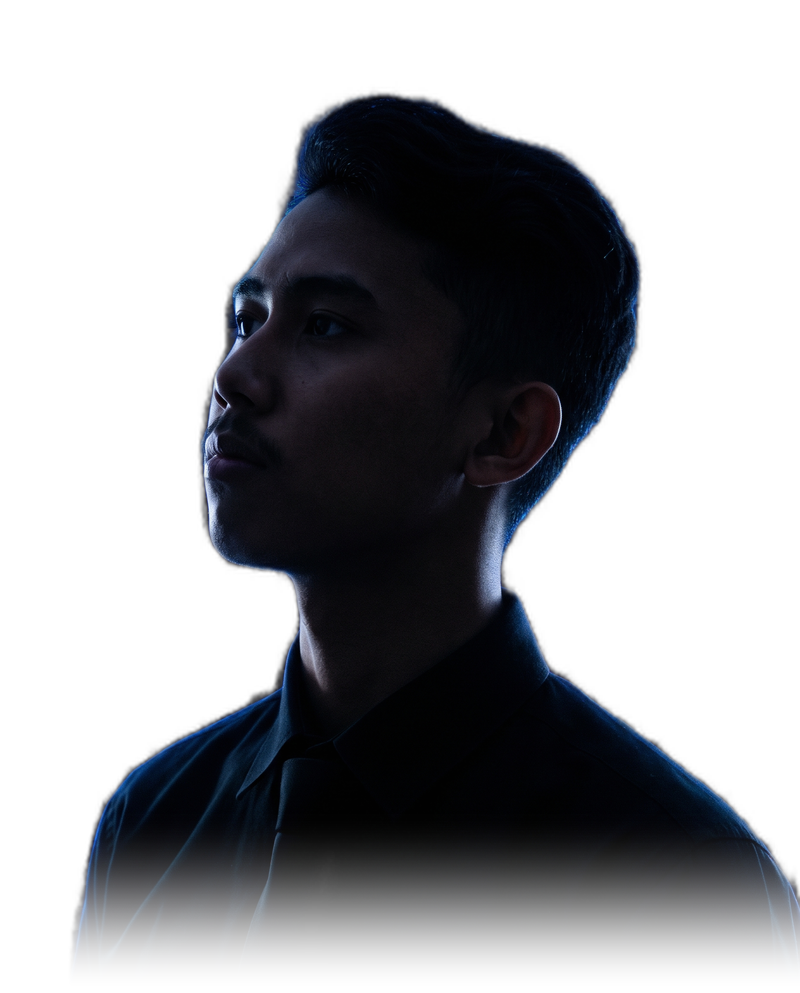
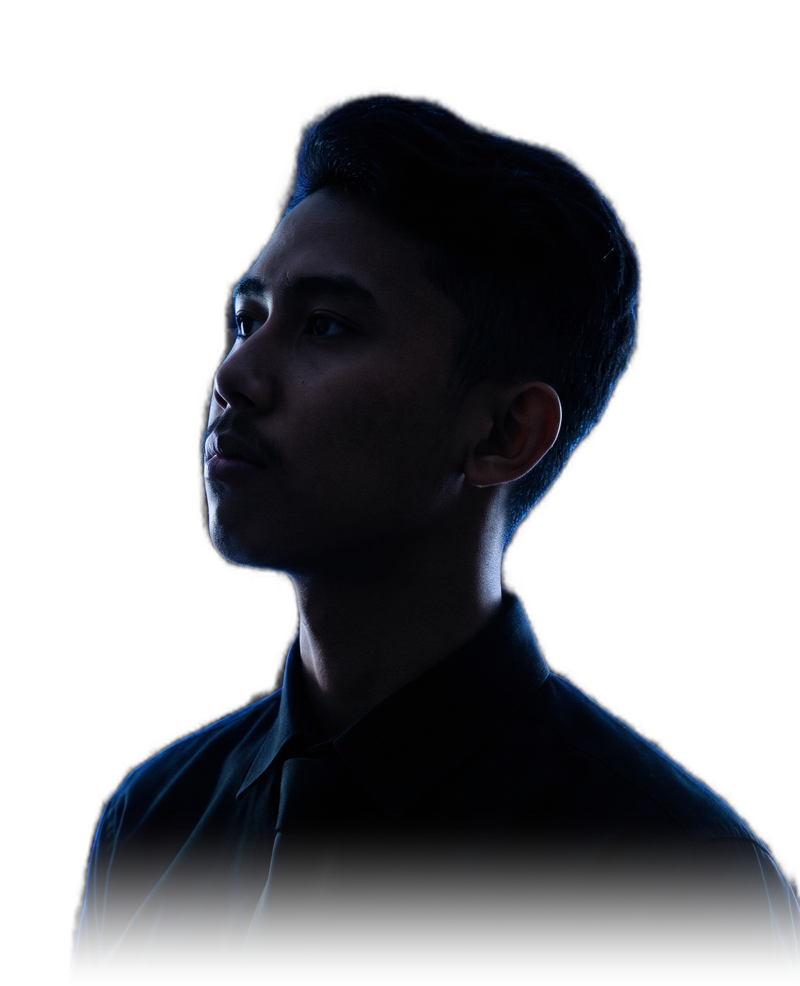
feat: add portfolio components and assets for personal web application

diff --git a/src/components/Hero.jsx b/src/components/Hero.jsx
@@ -3,14 +3,14 @@ import { ArrowUpRight, Mail, Sparkles, Terminal } from "lucide-react";
 
 const Hero = () => {
   return (
-    <section className="relative min-h-[calc(100vh-4rem)] flex items-center justify-center overflow-hidden bg-[#030712] px-6 py-16 lg:px-12 lg:py-16 xl:px-16">
+    <section className="relative min-h-[calc(100vh-4rem)] flex flex-col justify-end overflow-hidden bg-[#030712] px-6 pt-16 lg:px-12 lg:pt-20 xl:px-16 pb-0">
       {/* Dynamic Deep Blue & Black Gradient Atmosphere */}
       {/* 1. Base Dark Midnight Tone */}
       <div className="absolute inset-0 bg-gradient-to-b from-[#020617] via-[#040d21] to-[#020617] pointer-events-none" />
 
       {/* 2. Core Radial Glow directly behind Alfin's silhouette - Darker, richer midnight navy glow */}
       <div
-        className="absolute top-[45%] left-1/2 -translate-x-1/2 -translate-y-1/2 w-[600px] h-[600px] sm:w-[750px] sm:h-[750px] lg:w-[950px] lg:h-[950px] rounded-full pointer-events-none blur-3xl opacity-90"
+        className="absolute top-[50%] left-1/2 -translate-x-1/2 -translate-y-1/2 w-[600px] h-[600px] sm:w-[750px] sm:h-[750px] lg:w-[950px] lg:h-[950px] rounded-full pointer-events-none blur-3xl opacity-90"
         style={{
           background:
             "radial-gradient(circle at 50% 50%, rgba(29, 78, 216, 0.38) 0%, rgba(30, 58, 138, 0.28) 35%, rgba(15, 23, 42, 0.45) 60%, transparent 80%)",
@@ -19,7 +19,7 @@ const Hero = () => {
 
       {/* 3. Subtle Inner Spotlight behind the head - Softened & darker */}
       <div
-        className="absolute top-[40%] left-1/2 -translate-x-1/2 -translate-y-1/2 w-[280px] h-[280px] sm:w-[380px] sm:h-[380px] rounded-full pointer-events-none blur-2xl opacity-60"
+        className="absolute top-[45%] left-1/2 -translate-x-1/2 -translate-y-1/2 w-[280px] h-[280px] sm:w-[380px] sm:h-[380px] rounded-full pointer-events-none blur-2xl opacity-60"
         style={{
           background:
             "radial-gradient(circle, rgba(37, 99, 235, 0.25) 0%, rgba(30, 58, 138, 0.15) 60%, transparent 100%)",
@@ -44,15 +44,15 @@ const Hero = () => {
       <div className="absolute bottom-0 left-0 right-0 h-24 bg-gradient-to-t from-[#020617] to-transparent pointer-events-none z-0" />
 
       {/* Content Grid */}
-      <div className="container relative z-10 mx-auto max-w-7xl">
-        <div className="grid grid-cols-1 items-center gap-8 lg:grid-cols-12 lg:gap-4 xl:gap-8">
+      <div className="container relative z-10 mx-auto max-w-7xl h-full flex flex-col justify-end">
+        <div className="grid grid-cols-1 items-end gap-8 lg:grid-cols-12 lg:gap-4 xl:gap-8">
 
           {/* LEFT COLUMN: Punchy Bold Typography */}
           <motion.div
             initial={{ opacity: 0, x: -30 }}
             animate={{ opacity: 1, x: 0 }}
             transition={{ duration: 0.7, ease: "easeOut" }}
-            className="flex flex-col justify-center lg:self-center lg:-translate-y-16 xl:-translate-y-20 lg:col-span-4 text-left z-20"
+            className="flex flex-col justify-center lg:self-center lg:col-span-4 text-left z-20 pb-8 lg:pb-16"
           >
             {/* Top Greeting */}
             <p className="text-blue-300 font-medium text-lg sm:text-xl lg:text-2xl tracking-tight mb-2">
@@ -68,21 +68,21 @@ const Hero = () => {
             </h1>
           </motion.div>
 
-          {/* CENTER COLUMN: Portrait Cutout with Blue Backlight */}
+          {/* CENTER COLUMN: Portrait Cutout sitting flush at the bottom */}
           <motion.div
             initial={{ opacity: 0, scale: 0.95, y: 20 }}
             animate={{ opacity: 1, scale: 1, y: 0 }}
             transition={{ duration: 0.8, delay: 0.15, ease: "easeOut" }}
-            className="relative flex items-center justify-center lg:col-span-4 z-10"
+            className="relative flex items-end justify-center lg:col-span-4 z-10 self-end leading-none"
           >
             {/* Ambient Backlight Halo directly centered on head/torso */}
             <div className="absolute inset-0 -top-6 mx-auto w-[90%] h-[90%] rounded-full bg-blue-600/15 blur-3xl -z-10 pointer-events-none" />
 
-            <div className="relative w-full max-w-[340px] sm:max-w-[400px] md:max-w-[450px] lg:max-w-[500px]">
+            <div className="relative w-full max-w-[340px] sm:max-w-[400px] md:max-w-[450px] lg:max-w-[500px] leading-none">
               <img
                 src="/alfin2.png"
                 alt="Muhammad Alfin Tsabit - Software Developer"
-                className="w-full h-auto object-contain select-none transition-transform duration-500 hover:scale-[1.02]"
+                className="w-full h-auto object-contain object-bottom block align-bottom select-none transition-transform duration-500 hover:scale-[1.02]"
                 loading="eager"
                 decoding="async"
               />
@@ -94,7 +94,7 @@ const Hero = () => {
             initial={{ opacity: 0, x: 30 }}
             animate={{ opacity: 1, x: 0 }}
             transition={{ duration: 0.7, delay: 0.3, ease: "easeOut" }}
-            className="flex flex-col justify-center lg:col-span-4 z-20 space-y-6 text-left lg:py-12"
+            className="flex flex-col justify-center lg:self-center lg:col-span-4 z-20 space-y-6 text-left pb-10 lg:pb-16"
           >
             {/* Name */}
             <div>
@@ -106,7 +106,7 @@ const Hero = () => {
             {/* Description & Bio */}
             <p className="text-sm sm:text-base text-slate-300 leading-relaxed font-normal">
               Fresh graduate in Informatics Engineering with practical experience in
-              full-stack web development using React JS, Laravel, Python, and PHP.
+              full-stack web development using JavaScript, Python, and PHP.
               Focused on delivering clean architecture, high performance, and seamless user experiences.
             </p>
 
@@ -114,7 +114,7 @@ const Hero = () => {
             <div className="flex flex-wrap items-center gap-3 pt-1">
               <a
                 href="#projects"
-                className="group inline-flex items-center gap-2 px-5 py-3 rounded-xl font-semibold text-blue-900 bg-white hover:bg-blue-500 shadow-lg shadow-blue-600/30 hover:shadow-blue-500/50 hover:-translate-y-0.5 active:translate-y-0 transition-all duration-200"
+                className="group inline-flex items-center gap-2 px-5 py-3 rounded-xl font-semibold text-blue-900 hover:text-white bg-white hover:bg-blue-500 shadow-lg shadow-blue-600/30 hover:shadow-blue-500/50 hover:-translate-y-0.5 active:translate-y-0 transition-all duration-200"
               >
                 <span>View Projects</span>
                 <ArrowUpRight className="w-4 h-4 transition-transform group-hover:translate-x-0.5 group-hover:-translate-y-0.5" />
@@ -135,11 +135,11 @@ const Hero = () => {
                 Core Technologies
               </p>
               <div className="flex flex-wrap gap-2 text-xs">
-                {["React.js", "Laravel", "Python", "PHP", "Tailwind CSS"].map(
+                {["JavaScript", "Python", "PHP"].map(
                   (tech) => (
                     <span
                       key={tech}
-                      className="px-2.5 py-1 rounded-lg bg-blue-950/60 border border-blue-800/40 text-blue-200 font-medium backdrop-blur-sm"
+                      className="px-3 py-1.5 rounded-lg font-medium text-blue-200 bg-blue-950/60 border border-blue-800/40 backdrop-blur-sm"
                     >
                       {tech}
                     </span>
@@ -148,7 +148,6 @@ const Hero = () => {
               </div>
             </div>
           </motion.div>
-
         </div>
       </div>
     </section>

diff --git a/src/components/About.jsx b/src/components/About.jsx
@@ -2,41 +2,41 @@ import { motion } from "framer-motion";
 
 const About = () => {
   return (
-    <section id="about" className="section-padding bg-secondary relative overflow-hidden">
-      <div className="container mx-auto max-w-7xl px-6 py-16 lg:px-16 relative z-10">
+    <section id="about" className="bg-secondary relative overflow-hidden pt-12 lg:pt-16">
+      <div className="container mx-auto max-w-7xl px-6 lg:px-16 relative z-10">
         <motion.div
-          initial={{ opacity: 0, y: 24 }}
+          initial={{ opacity: 0, y: 20 }}
           whileInView={{ opacity: 1, y: 0 }}
-          transition={{ duration: 0.6 }}
+          transition={{ duration: 0.5 }}
           viewport={{ once: true }}
-          className="grid grid-cols-1 items-center gap-12 lg:grid-cols-12 lg:gap-16"
+          className="grid grid-cols-1 items-end gap-8 lg:grid-cols-12 lg:gap-12"
         >
           {/* Left: Text (All Left-Aligned) */}
-          <div className="text-left lg:col-span-7">
-            <h2 className="mb-6 text-3xl font-bold text-white sm:text-4xl lg:text-5xl">
+          <div className="text-left lg:col-span-7 pb-8 lg:pb-30">
+            <h2 className="mb-4 text-3xl font-bold text-white sm:text-4xl">
               About Me
             </h2>
 
-            <p className="text-lg text-slate-300 leading-relaxed">
+            <p className="text-base sm:text-lg text-slate-300 leading-relaxed">
               Hi! I'm Muhammad Alfin Tsabit, a fresh graduate of D3 Teknik
               Informatika from Politeknik Negeri Indramayu with a strong interest
               in software development and full-stack web development. I am used to
               working across requirement analysis, system architecture,
-              implementation, and maintenance using React JS, Laravel, Python, and
+              implementation, and maintenance using JavaScript, Python, and
               PHP.
             </p>
           </div>
 
-          {/* Right: Image alfin3.png */}
-          <div className="flex justify-center lg:justify-end lg:col-span-5">
-            <div className="relative flex justify-center items-center">
+          {/* Right: Image alfin3.png (compact, proportional, sitting flush at the bottom edge) */}
+          <div className="flex justify-center lg:justify-end lg:col-span-5 self-end">
+            <div className="relative flex justify-center items-end leading-none">
               {/* Subtle ambient backlight glow */}
-              <div className="absolute inset-0 -m-8 rounded-full bg-blue-600/15 blur-3xl pointer-events-none" />
+              <div className="absolute inset-x-0 bottom-6 h-3/4 rounded-full bg-blue-600/15 blur-2xl pointer-events-none" />
 
               <img
                 src="/alfin3.png"
                 alt="Muhammad Alfin Tsabit"
-                className="relative z-10 w-full max-w-[140px] sm:max-w-[180px] md:max-w-[200px] lg:max-w-[200px] object-contain drop-shadow-[0_15px_30px_rgba(2,6,23,0.8)]"
+                className="relative z-10 block h-[260px] sm:h-[300px] md:h-[330px] lg:h-[460px] w-auto max-w-full object-contain object-bottom align-bottom drop-shadow-[0_10px_25px_rgba(2,6,23,0.7)]"
               />
             </div>
           </div>

diff --git a/src/components/certificate.jsx b/src/components/certificate.jsx
@@ -200,11 +200,11 @@ const Certificate = () => {
   return (
     <section id="certificates" className="section-padding bg-primary">
       <div className="container mx-auto max-w-7xl px-4 py-12">
-        <div className="mb-12 text-center">
+        <div className="ml-12 mb-12 text-left">
           <h2 className="mb-4 text-3xl font-bold text-white sm:text-4xl">
             Certificates
           </h2>
-          <p className="mx-auto max-w-2xl text-lg text-slate-300">
+          <p className="max-w-2xl text-lg text-slate-300">
             A collection of certificates that documents my learning journey in
             programming, data, and artificial intelligence.
           </p>
@@ -320,9 +320,8 @@ const Certificate = () => {
                     <div className="relative aspect-[4/3] overflow-hidden rounded-lg bg-slate-950">
                       <img
                         src={selectedCertificate.images[activeImageIndex]}
-                        alt={`${selectedCertificate.title} page ${
-                          activeImageIndex + 1
-                        }`}
+                        alt={`${selectedCertificate.title} page ${activeImageIndex + 1
+                          }`}
                         className="h-full w-full object-contain"
                       />
 
@@ -355,18 +354,16 @@ const Certificate = () => {
                             type="button"
                             key={image}
                             onClick={() => setActiveImageIndex(index)}
-                            className={`aspect-[4/3] overflow-hidden rounded-lg border-2 bg-slate-950 p-1 transition ${
-                              activeImageIndex === index
+                            className={`aspect-[4/3] overflow-hidden rounded-lg border-2 bg-slate-950 p-1 transition ${activeImageIndex === index
                                 ? "border-blue-400"
                                 : "border-transparent opacity-70 hover:opacity-100"
-                            }`}
+                              }`}
                             aria-label={`View page ${index + 1}`}
                           >
                             <img
                               src={image}
-                              alt={`${selectedCertificate.title} thumbnail ${
-                                index + 1
-                              }`}
+                              alt={`${selectedCertificate.title} thumbnail ${index + 1
+                                }`}
                               className="h-full w-full object-contain"
                             />
                           </button>

diff --git a/src/components/Projects.jsx b/src/components/Projects.jsx
@@ -138,12 +138,12 @@ const Projects = () => {
           whileInView={{ opacity: 1, y: 0 }}
           transition={{ duration: 0.5 }}
           viewport={{ once: true }}
-          className="text-center mb-12"
+          className="text-left ml-12 mb-12"
         >
           <h2 className="text-3xl sm:text-4xl font-bold text-white mb-4">
             Recent Projects
           </h2>
-          <p className="text-lg text-slate-300 max-w-2xl mx-auto">
+          <p className="text-lg text-slate-300 max-w-2xl">
             Selected projects from my full-stack development work
           </p>
         </motion.div>
@@ -280,11 +280,10 @@ const Projects = () => {
                           type="button"
                           key={image}
                           onClick={() => setActiveImageIndex(index)}
-                          className={`relative aspect-video overflow-hidden rounded-lg border-2 transition ${
-                            activeImageIndex === index
-                              ? "border-blue-400"
-                              : "border-transparent opacity-70 hover:opacity-100"
-                          }`}
+                          className={`relative aspect-video overflow-hidden rounded-lg border-2 transition ${activeImageIndex === index
+                            ? "border-blue-400"
+                            : "border-transparent opacity-70 hover:opacity-100"
+                            }`}
                           aria-label={`View photo ${index + 1}`}
                         >
                           {renderProjectImage(selectedProject, image, "h-full w-full")}

diff --git a/src/components/Experience.jsx b/src/components/Experience.jsx
@@ -16,7 +16,7 @@ const Experience = () => {
       period: "2023 - 2024",
       summary:
         "Built a web-based system that allows library visitors to propose book titles that are not yet available in the library collection.",
-      stack: "Laravel",
+      stack: "PHP, Laravel",
     },
     {
       role: "Full-stack Developer",
@@ -36,7 +36,7 @@ const Experience = () => {
           whileInView={{ opacity: 1, y: 0 }}
           transition={{ duration: 0.5 }}
           viewport={{ once: true }}
-          className="mx-auto mb-12 max-w-3xl text-center"
+          className="mx-auto ml-12 mb-12 max-w-3xl text-left"
         >
           <h2 className="mb-4 text-3xl font-bold text-white sm:text-4xl">
             Experience
@@ -95,7 +95,7 @@ const Experience = () => {
               ))}
             </ul>
 
-            <p className="mt-6 rounded-xl border border-blue-800/30 bg-blue-950/40 px-4 py-3 text-sm font-medium text-blue-200">
+            <p className="mt-6 rounded-xl px-4 py-3 text-sm font-medium text-blue-200">
               Tech stack: PHP, Laravel
             </p>
           </motion.article>

diff --git a/src/components/Navbar.jsx b/src/components/Navbar.jsx
@@ -37,15 +37,14 @@ const Navbar = () => {
 
   return (
     <nav
-      className={`fixed top-0 w-full bg-transparent backdrop-blur-md z-40 transition-transform duration-300 ${
-        isVisible ? 'translate-y-0' : '-translate-y-full'
-      }`}
+      className={`fixed top-0 w-full bg-transparent backdrop-blur-md z-40 transition-transform duration-300 ${isVisible ? 'translate-y-0' : '-translate-y-full'
+        }`}
     >
       <div className="container mx-auto px-6 lg:px-16">
         <div className="flex justify-between items-center h-16">
           <motion.a
             href="#"
-            className="text-xl hover:cursor-pointer font-bold text-blue-600"
+            className="text-xl hover:cursor-pointer font-bold text-white"
             initial={{ opacity: 0 }}
             animate={{ opacity: 1 }}
             transition={{ duration: 0.5 }}

diff --git a/src/components/Skills.jsx b/src/components/Skills.jsx
@@ -38,12 +38,12 @@ const Skills = () => {
           whileInView={{ opacity: 1, y: 0 }}
           transition={{ duration: 0.5 }}
           viewport={{ once: true }}
-          className="mx-auto mb-12 max-w-3xl text-center"
+          className="mx-auto ml-12 mb-12 max-w-3xl text-left"
         >
           <h2 className="mb-4 text-3xl font-bold text-white sm:text-4xl">
             Technical Skills
           </h2>
-          <p className="mx-auto max-w-2xl text-lg text-slate-300">
+          <p className="max-w-2xl text-lg text-slate-300">
             A practical stack for building, maintaining, and improving
             full-stack web applications.
           </p>

diff --git a/src/components/Education.jsx b/src/components/Education.jsx
@@ -29,7 +29,7 @@ const Education = () => {
           whileInView={{ opacity: 1, y: 0 }}
           transition={{ duration: 0.5 }}
           viewport={{ once: true }}
-          className="mx-auto mb-12 max-w-3xl text-center"
+          className="ml-12 mb-12 max-w-3xl text-left"
         >
           <h2 className="mb-4 text-3xl font-bold text-white sm:text-4xl">
             Education
@@ -73,7 +73,7 @@ const Education = () => {
               </motion.article>
             );
           })}
-        </div>       
+        </div>
       </div>
     </section>
   );

diff --git a/src/index.css b/src/index.css
@@ -41,15 +41,10 @@ body {
   min-height: 100vh;
 }
 
-a:not(.btn-outline-secondary) {
-  font-weight: 500;
-  color: white;
-  text-decoration: inherit;
-}
-
-
-a:hover {
-  color: #535bf2;
+@layer base {
+  a {
+    text-decoration: inherit;
+  }
 }
 
 h1 {
